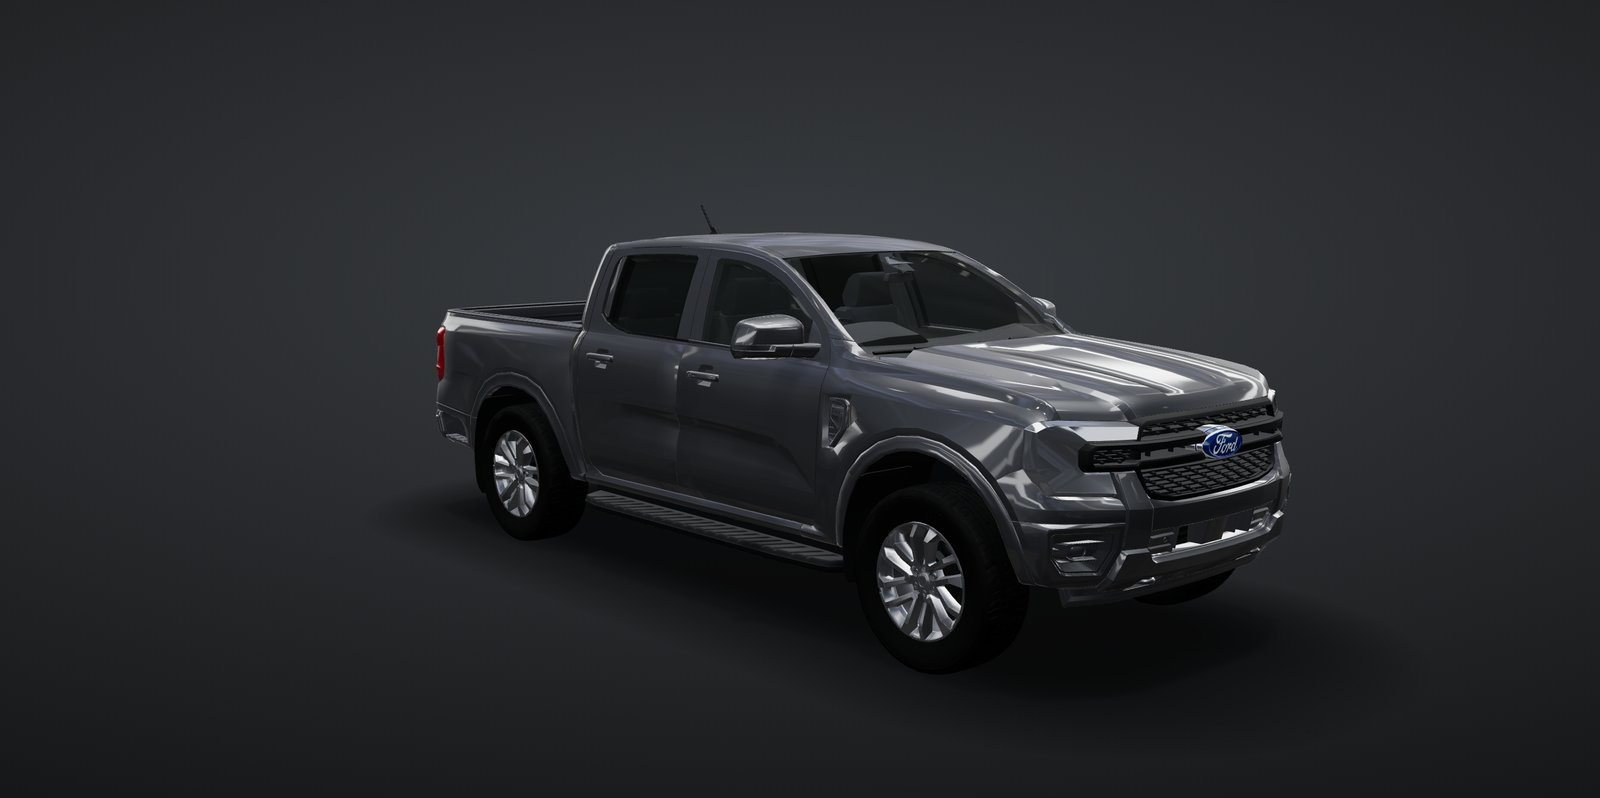
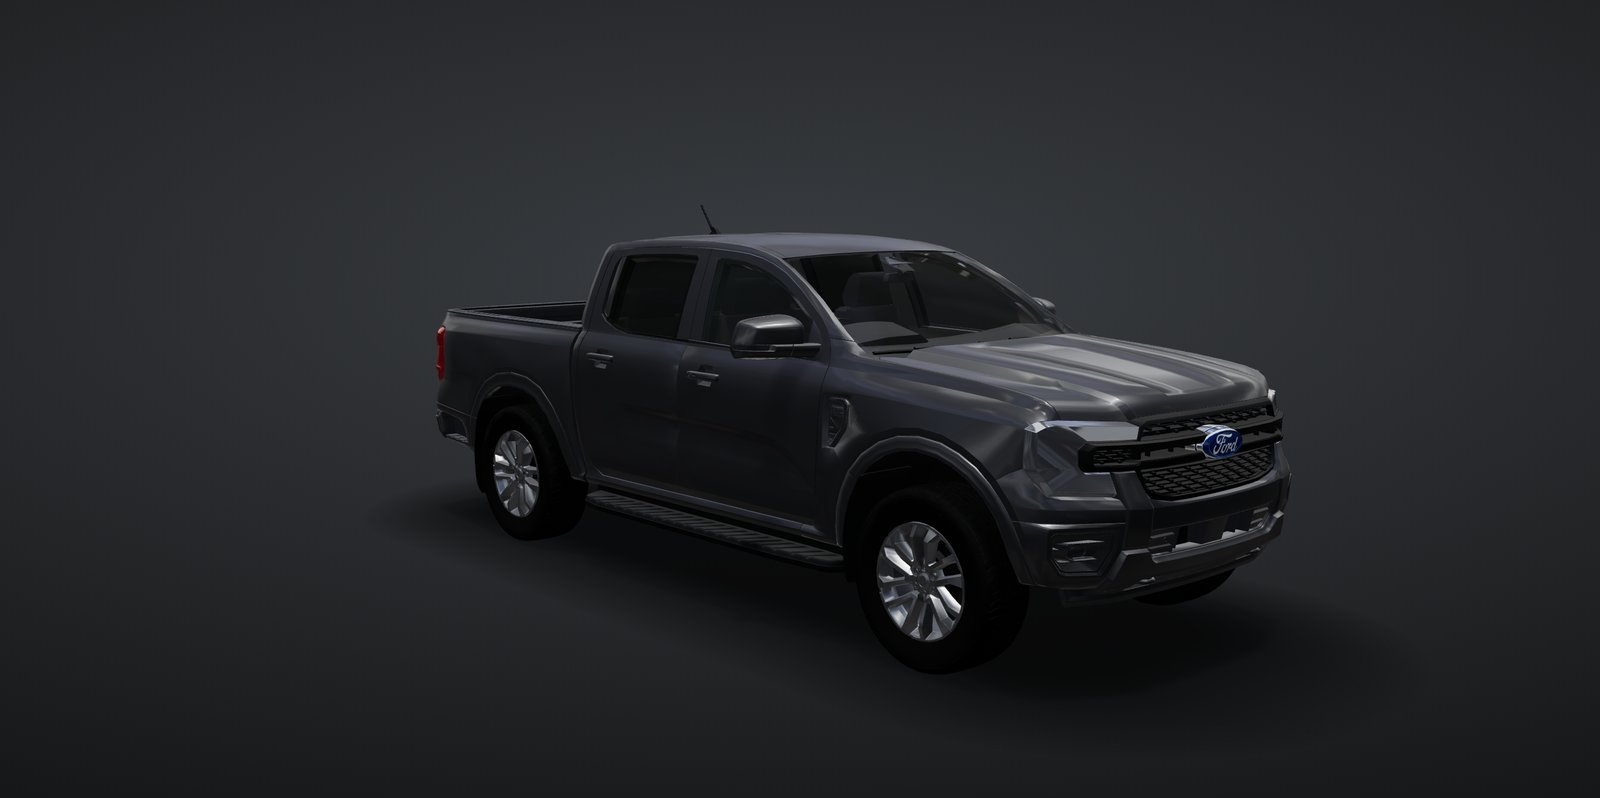
3D viewer: soft lighting only, Any colour paint option, new poster
Claude-Session: https://claude.ai/code/session_016zsfzgbJm1t8ZGwMmeEJNp

diff --git a/3d/index.html b/3d/index.html
@@ -76,6 +76,14 @@ h1{font-family:var(--display);font-weight:400;font-size:clamp(26px,4vw,40px);let
 .seg button[aria-pressed="true"]{background:var(--accent);color:var(--on-accent)}
 .seg button:focus-visible{outline:2px solid var(--accent);outline-offset:2px}
 .sw{display:inline-block;width:12px;height:12px;border-radius:50%;margin-right:6px;vertical-align:-1px;box-shadow:0 0 0 1px rgba(255,255,255,.45)}
+.sw-any{background:conic-gradient(#e33,#e9b31d,#4c4,#2bd,#33e,#c3c,#e33)!important}
+.anycol{flex-direction:row;flex-wrap:wrap;align-items:center;gap:8px 12px;background:var(--panel);border:1px solid var(--line);border-radius:12px;padding:10px 14px}
+.anycol input[type=range]{-webkit-appearance:none;appearance:none;width:200px;max-width:100%;height:14px;border-radius:999px;outline:none;cursor:pointer}
+.anycol .hue{background:linear-gradient(90deg,#f33,#f93,#ee3,#3c3,#3cc,#36f,#93f,#f3c,#f33)}
+.anycol .light{background:linear-gradient(90deg,#111,var(--anymid,#3a6ea5),#eee)}
+.anycol input[type=range]::-webkit-slider-thumb{-webkit-appearance:none;width:22px;height:22px;border-radius:50%;background:#fff;border:3px solid var(--accent);box-shadow:0 1px 4px rgba(0,0,0,.5)}
+.anycol input[type=range]::-moz-range-thumb{width:18px;height:18px;border-radius:50%;background:#fff;border:3px solid var(--accent)}
+.anycol input[type=range]:focus-visible{outline:2px solid var(--accent);outline-offset:3px}
 .note{font-size:12.5px;color:var(--muted);max-width:75ch;margin:6px 0 0}
 .disclaim{margin:0 0 14px;padding:10px 14px;border-radius:10px;background:var(--panel);border:1px solid var(--line);color:var(--muted);font-size:13.5px;line-height:1.4;max-width:none}
 .disclaim b{font-weight:600;color:var(--accent)}
@@ -102,7 +110,7 @@ html.embedded #stage{aspect-ratio:16/9;min-height:300px;max-height:640px;width:1
   </header>
 
   <div id="stage">
-    <img class="poster" src="poster.jpg?v=d1" alt="Ford Ranger dual cab with tinted windows" width="1600" height="807">
+    <img class="poster" src="poster.jpg?v=d2" alt="Ford Ranger dual cab with tinted windows" width="1600" height="807">
     <button class="go3d" id="go3d" type="button"><svg viewBox="0 0 24 24" width="18" height="18" aria-hidden="true"><path d="M12 3 4 7.5v9L12 21l8-4.5v-9L12 3Zm0 2.3 5.7 3.2L12 11.7 6.3 8.5 12 5.3ZM6 10.2l5 2.8v5.6l-5-2.8v-5.6Zm7 8.4V13l5-2.8v5.6l-5 2.8Z" fill="currentColor"/></svg>Try tint shades in 3D</button>
     <div class="loading" id="loading" hidden>Loading… 0%</div>
     <div class="legal live-only" id="legal" role="status"><span class="dot"></span><span id="legal-text">Road legal in VIC</span></div>
@@ -137,7 +145,14 @@ html.embedded #stage{aspect-ratio:16/9;min-height:300px;max-height:640px;width:1
           <button id="paint-meteor" data-v="meteor" aria-pressed="true"><i class="sw" style="background:#4a4e53"></i>Meteor Grey</button>
           <button id="paint-shadow" data-v="shadow" aria-pressed="false"><i class="sw" style="background:#141518"></i>Shadow Black</button>
           <button id="paint-blue" data-v="blue" aria-pressed="false"><i class="sw" style="background:#21497f"></i>Blue Lightning</button>
+          <button id="paint-custom" data-v="custom" aria-pressed="false"><i class="sw sw-any" id="sw-any"></i>Any colour</button>
         </div></div>
+      <div class="group anycol" id="anycol" hidden>
+        <label class="label" for="any-hue">Colour</label>
+        <input type="range" id="any-hue" min="0" max="360" value="205" class="hue">
+        <label class="label" for="any-light">Light / dark</label>
+        <input type="range" id="any-light" min="6" max="85" value="38" class="light">
+      </div>
       <div class="group"><span class="label">View</span>
         <div class="seg" data-key="view">
           <button id="view-front" data-v="front" aria-pressed="true">Front ¾</button>
@@ -188,6 +203,7 @@ controls.maxPolarAngle=PI/2-0.04;
 controls.autoRotateSpeed=1.2;
 controls.enablePan=false;
 
+const ENVS={};
 (function(){ // fallback studio environment, replaced by the photographed HDRI once loaded
   const env=new T.Scene();
   const dg=new T.SphereGeometry(20,48,24),dc=[],pos=dg.attributes.position;
@@ -199,17 +215,20 @@ controls.enablePan=false;
   box(12,5,0,9,0,0,PI/2,5.0);box(9,1.6,0,3.2,9,0,0,3.2);box(9,1.6,0,3.2,-9,PI,0,2.4);box(3,5,10,3,0,-PI/2,0,1.8);box(3,5,-10,3,0,PI/2,0,2.4);
   const pm=new T.PMREMGenerator(renderer);scene.environment=pm.fromScene(env,0.03).texture;
   new T.RGBELoader().setDataType(T.UnsignedByteType).load('env.hdr',tex=>{
-    // studio look: dimmed real environment + long strip softboxes that draw highlight lines along the body
-    tex.encoding=T.RGBEEncoding;const env=new T.Scene();
-    env.add(new T.Mesh(new T.SphereGeometry(30,64,32),new T.MeshBasicMaterial({map:tex,side:T.BackSide,color:new T.Color(.32,.32,.32)})));
-    const strip=(w,h,x,y,z,rx,ry,k)=>{const m=new T.Mesh(new T.PlaneGeometry(w,h),new T.MeshBasicMaterial({color:new T.Color(k,k,k),side:T.DoubleSide}));m.position.set(x,y,z);m.rotation.set(rx,ry,0);env.add(m);};
-    strip(11,2.2,0,7,0,PI/2,0,7);            // overhead softbox
-    strip(12,.7,0,2.6,7.5,0,0,6);            // long side strips
-    strip(12,.7,0,2.6,-7.5,0,0,6);
-    strip(12,.5,0,.9,8,0,0,2.2);             // low kickers for the lower body
-    strip(12,.5,0,.9,-8,0,0,2.2);
-    strip(3,4,9,3,0,0,-PI/2,2.5);strip(3,4,-9,3,0,0,PI/2,2.5);
-    scene.environment=pm.fromScene(env,0.01).texture;
+    // studio look: dimmed real environment + strip softboxes; built at three strengths for the Lighting toggle
+    tex.encoding=T.RGBEEncoding;
+    const build=(k,base)=>{const env=new T.Scene();
+      env.add(new T.Mesh(new T.SphereGeometry(30,64,32),new T.MeshBasicMaterial({map:tex,side:T.BackSide,color:new T.Color(base,base,base)})));
+      const strip=(w,h,x,y,z,rx,ry,i)=>{const m=new T.Mesh(new T.PlaneGeometry(w,h),new T.MeshBasicMaterial({color:new T.Color(i*k,i*k,i*k),side:T.DoubleSide}));m.position.set(x,y,z);m.rotation.set(rx,ry,0);env.add(m);};
+      strip(11,2.2,0,7,0,PI/2,0,7);            // overhead softbox
+      strip(12,.7,0,2.6,7.5,0,0,6);            // long side strips
+      strip(12,.7,0,2.6,-7.5,0,0,6);
+      strip(12,.5,0,.9,8,0,0,2.2);             // low kickers for the lower body
+      strip(12,.5,0,.9,-8,0,0,2.2);
+      strip(3,4,9,3,0,0,-PI/2,2.5);strip(3,4,-9,3,0,0,PI/2,2.5);
+      return pm.fromScene(env,0.01).texture;};
+    ENVS.soft=build(.3,.42);
+    scene.environment=ENVS.soft;apply();
   });
 })();
 scene.add(new T.HemisphereLight(0xffffff,0x6b6e72,0.12));
@@ -229,7 +248,7 @@ ground.rotation.x=-PI/2;ground.receiveShadow=true;scene.add(ground);
   m.rotation.x=-PI/2;m.position.set(0,0.004,0);m.renderOrder=-1;scene.add(m);})();
 
 /* ---------- materials ---------- */
-const PAINT={arctic:{c:'#d9dad6',m:0},aluminium:{c:'#a3a7ab',m:.3},meteor:{c:'#4a4e53',m:.25},shadow:{c:'#141518',m:.1},blue:{c:'#21497f',m:.25}};
+const PAINT={custom:{c:'#2f5f8f',m:.25},arctic:{c:'#d9dad6',m:0},aluminium:{c:'#a3a7ab',m:.3},meteor:{c:'#4a4e53',m:.25},shadow:{c:'#141518',m:.1},blue:{c:'#21497f',m:.25}};
 const glassBase=()=>new T.MeshPhysicalMaterial({color:col('#1a1f24'),roughness:.03,metalness:.1,clearcoat:1,clearcoatRoughness:.02,envMapIntensity:.9,transparent:true,opacity:.42,depthWrite:false,side:T.DoubleSide});
 const MAT={
   clay:new T.MeshPhysicalMaterial({color:col(PAINT.meteor.c),roughness:.5,metalness:.25,clearcoat:.55,clearcoatRoughness:.16,envMapIntensity:.8,side:T.DoubleSide}),
@@ -295,9 +314,18 @@ let tween=null;
 function goView(v){const to=new T.Vector3(...VIEWS[v]);
   if(matchMedia('(prefers-reduced-motion: reduce)').matches){camera.position.copy(to);controls.target.copy(TARGET);return;}
   tween={from:camera.position.clone(),to,fromT:controls.target.clone(),t0:performance.now(),d:700};}
-const state={paint:'meteor',view:'front',spin:'off'};
-function apply(){const pt=PAINT[state.paint];MAT.clay.color.copy(col(pt.c));
-  MAT.clay.metalness=pt.m>0?pt.m+.2:.05;MAT.clay.roughness=pt.m>0?.36:.42;MAT.clay.clearcoat=1;MAT.clay.clearcoatRoughness=.035;MAT.clay.envMapIntensity=1;
+const LIGHT={soft:{cc:.7,ccr:.14,env:.85,exp:.82},studio:{cc:.9,ccr:.07,env:.9,exp:.82},showroom:{cc:1,ccr:.035,env:1,exp:.85}};
+const state={paint:'meteor',view:'front',spin:'off',light:'soft'};
+function anyHex(){const h=+document.getElementById('any-hue').value,l=+document.getElementById('any-light').value/100;
+  const sat=l<.12||l>.8?.25:.62;return '#'+new T.Color().setHSL(h/360,sat,l).getHexString();}
+function apply(){if(state.paint==='custom'){PAINT.custom.c=anyHex();}
+  document.getElementById('anycol').hidden=state.paint!=='custom';
+  const mid='#'+new T.Color().setHSL(+document.getElementById('any-hue').value/360,.62,.42).getHexString();
+  document.getElementById('anycol').style.setProperty('--anymid',mid);document.getElementById('sw-any').style.boxShadow=state.paint==='custom'?'0 0 0 2px '+PAINT.custom.c:'';
+  const pt=PAINT[state.paint];MAT.clay.color.copy(col(pt.c));
+  const L=LIGHT[state.light]||LIGHT.studio;
+  MAT.clay.metalness=pt.m>0?pt.m+.2:.05;MAT.clay.roughness=pt.m>0?.36:.42;MAT.clay.clearcoat=L.cc;MAT.clay.clearcoatRoughness=L.ccr;MAT.clay.envMapIntensity=L.env;
+  if(ENVS[state.light])scene.environment=ENVS[state.light];renderer.toneMappingExposure=L.exp;
   controls.autoRotate=state.spin==='on';}
 document.querySelectorAll('.seg[data-key]').forEach(seg=>{
   seg.addEventListener('click',e=>{const b=e.target.closest('button');if(!b)return;const k=seg.dataset.key;state[k]=b.dataset.v;
@@ -305,6 +333,7 @@ document.querySelectorAll('.seg[data-key]').forEach(seg=>{
     if(k==='view')goView(b.dataset.v);apply();});
 });
 controls.addEventListener('start',()=>{tween=null;});
+['any-hue','any-light'].forEach(id=>document.getElementById(id).addEventListener('input',apply));
 apply();
 
 function resize(){const r=stage.getBoundingClientRect();const w=Math.max(r.width,1),h=Math.max(r.height,1);
